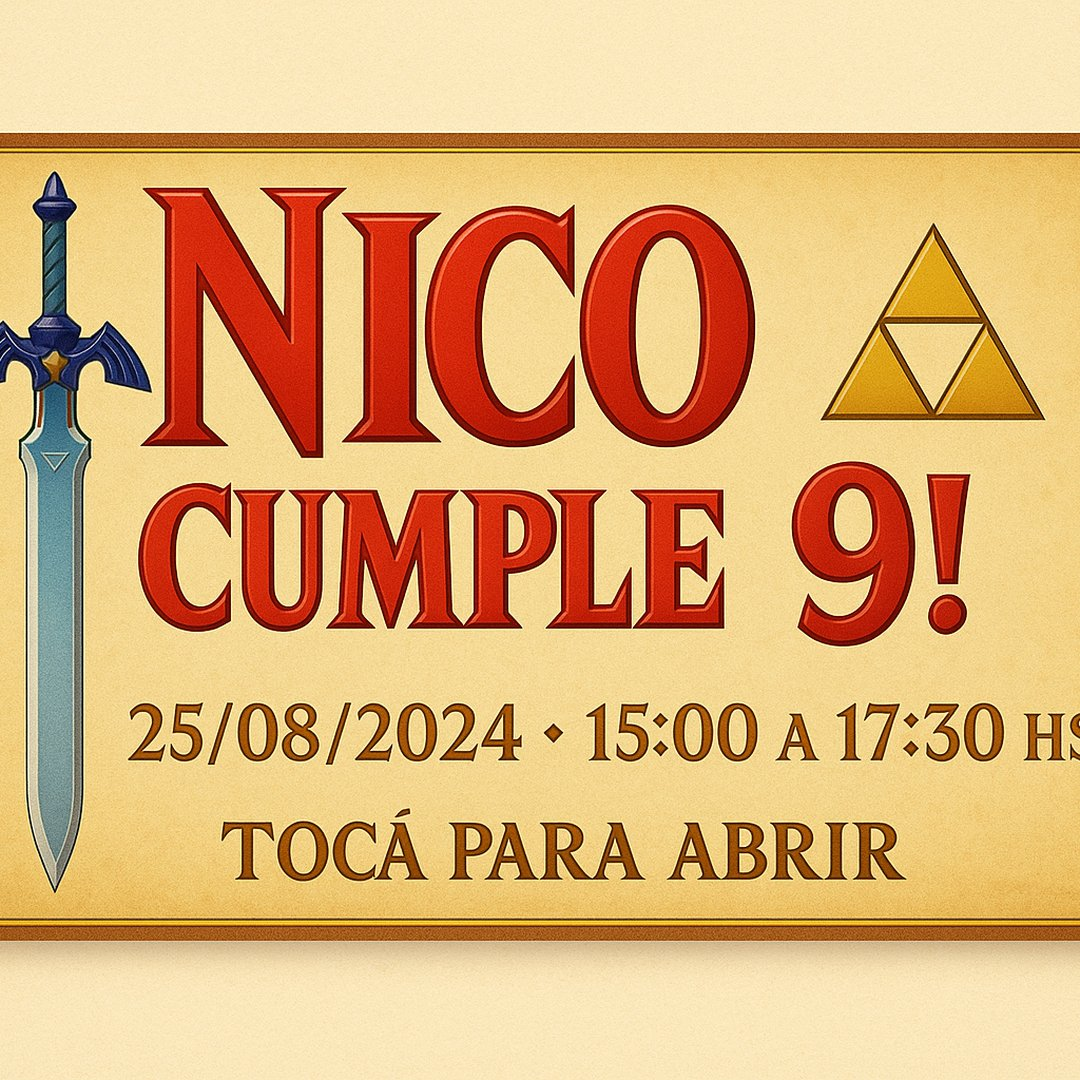
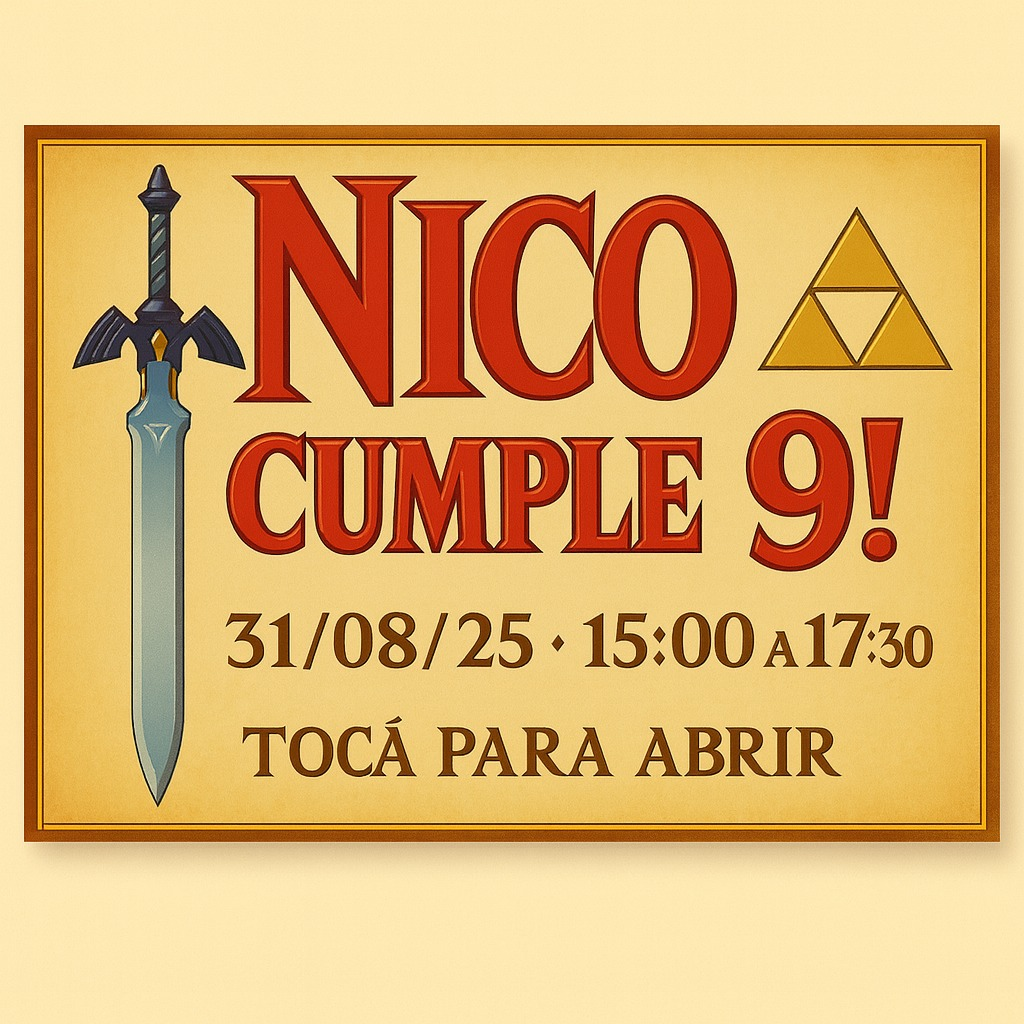
datos

diff --git a/index.html b/index.html
@@ -56,7 +56,7 @@
     <section id="contador">
       <div id="cuenta"></div>
       <div class="mensaje" id="dia">
-        <p>¡HOY ES EL GRAN DÍA EN HYRULE!<br>De 15:00 a 17:30hs</p>
+        <p>¡HOY ES EL GRAN DÍA! Te espero<br>De 15:00 a 17:30hs</p>
       </div>
     </section>
 
@@ -88,8 +88,8 @@
 </h3>
 
   <p>
-    Te esperamos en el castillo real (dirección real aquí)<br />
-    el <strong>25/08/2024</strong> de <strong>15:00 a 17:30 hs</strong>.<br />
+    Te esperamos en el castillo real (Bernardo de Monteagudo 1460, Martín Coronado)<br />
+    el <strong>31/08/2025</strong> de <strong>15:00 a 17:30 hs</strong>.<br />
     ¡No llegues tarde, el reino te necesita! ⚔
   </p>
 </section>
@@ -98,10 +98,10 @@
 <section id="redes" class="seccion-hyrule">
   <h3>🔗 Enlaces mágicos</h3>
   <div class="botones-redes">
-    <a href="#" target="_blank" class="btn btn-instagram">
+    <a href="https://www.instagram.com/elrincondetussuenios/?hl=es" target="_blank" class="btn btn-instagram">
       <img src="multimedia/insta.png" alt="Instagram" /> Instagram
     </a>
-    <a href="#" target="_blank" class="btn btn-mapa">
+    <a href="https://maps.app.goo.gl/jCAQY4gWcGXQ9GHv8" target="_blank" class="btn btn-mapa">
       <img src="multimedia/maps.png" alt="Mapa" /> Cómo llegar
     </a>
   </div>
@@ -135,15 +135,13 @@
     </div>
 
     <nav class="footer-links">
-      <a href="#" class="btn-link">
-        <img src="multimedia/insta.png" alt="" /> Instagram
-      </a>
-      <a href="#" class="btn-link">
-        <img src="multimedia/maps.png" alt="" /> Cómo llegar
-      </a>
-      <a href="https://wa.me/541158254893" class="btn-cta">
+      
+      <a href="https://wa.me/541158254893?text=Hola%20%E2%9C%8C%EF%B8%8F%2C%20quiero%20confirmar%20mi%20asistencia%20al%20cumple%20de%20Nico."
+   class="btn-cta"
+   target="_blank" rel="noopener">
   <i class="fa-brands fa-whatsapp"></i> WhatsApp
 </a>
+
 
     </nav>
 

diff --git a/js/main.js b/js/main.js
@@ -48,7 +48,7 @@ btnAgregar.addEventListener("click", async () => {
 simplyCountdown('#cuenta', {
   year: 2025,
   month: 8,
-  day: 25,
+  day: 31,
   hours: 0,
   minutes: 0,
   seconds: 0,
